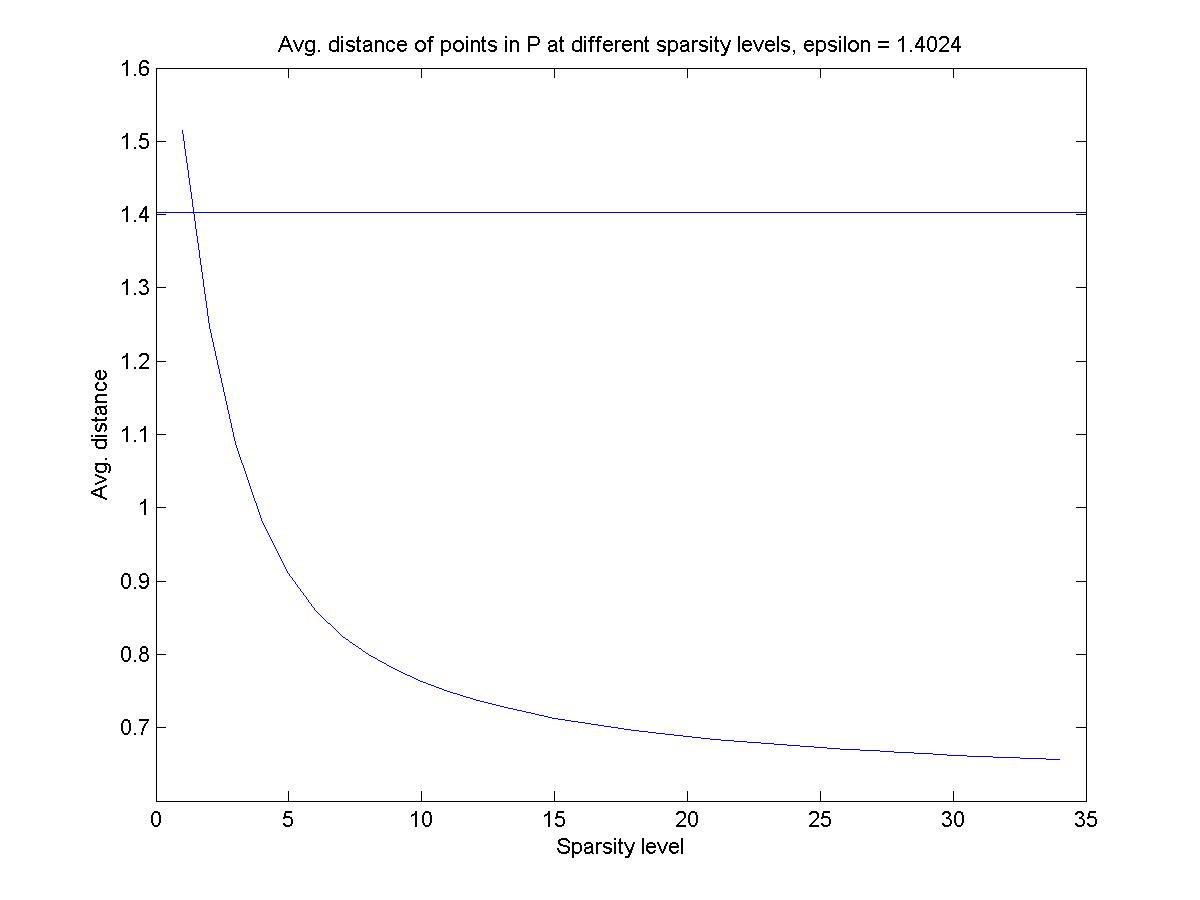
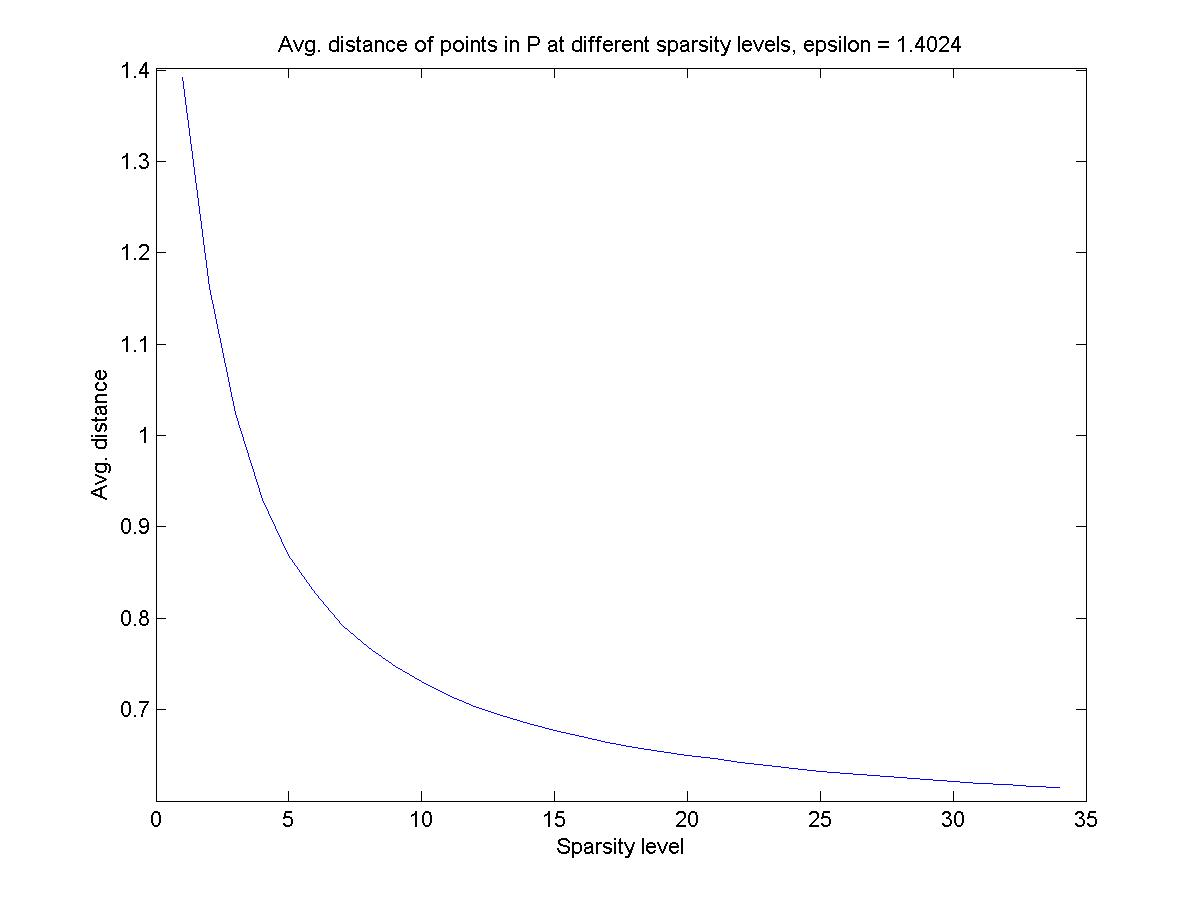
added code to plot error vs memory for point wise

diff --git a/plot_chull.m b/plot_chull.m
@@ -12,7 +12,7 @@ for iter = 1:10
 
     % Importing data and converting to the matrix form
     % ----- CHANGE HERE (specify file)---------------
-    file_name = 'wdbc';
+    file_name = 'CTG';
     P = csvread([file_name '-mod.csv']);
     P = P'; 
     %P = P(:, 1:150);
